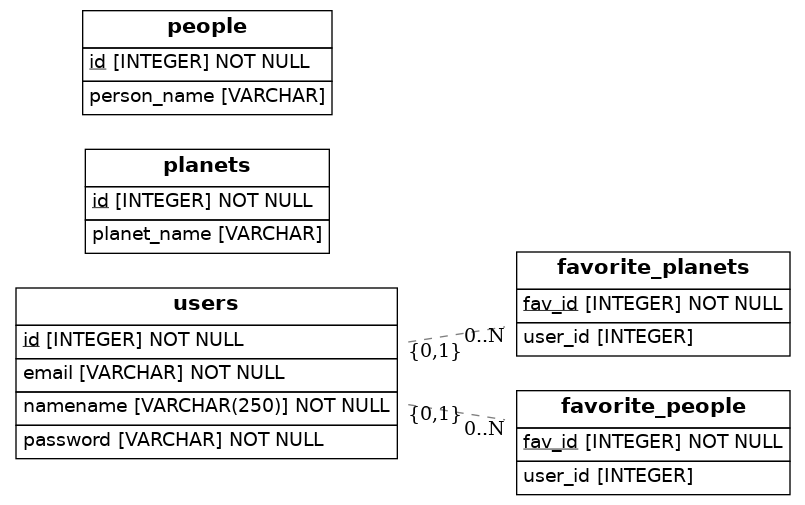
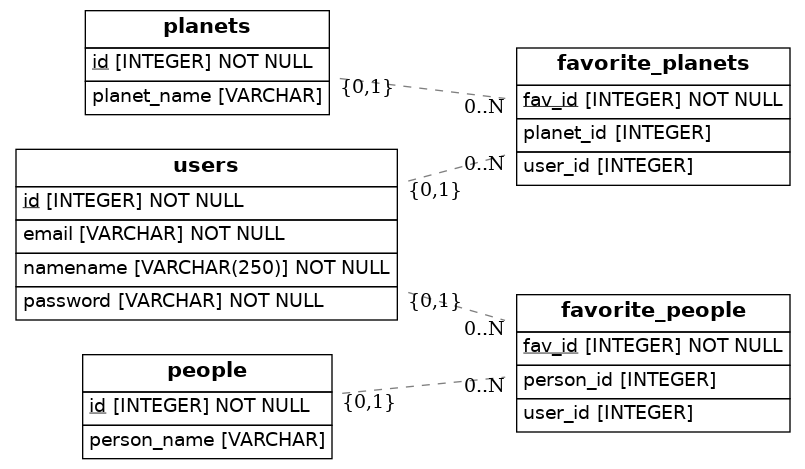
mejores las relaciones entre tablas

Changed region(s): [[0.0, 0.4776, 0.9938, 0.9851], [0.0, 0.0, 0.559, 0.5075], [0.559, 0.0896, 0.9938, 0.4179]]

diff --git a/src/models.py b/src/models.py
@@ -20,25 +20,30 @@ class Planets(Base):
     __tablename__ = 'planets'
     id = Column(Integer, primary_key=True)
     planet_name = Column(String)
+    Favorites_Planets = relationship("Favorites_Planets", uselist=False)
 
 class People(Base):
     __tablename__ = 'people'
     id = Column(Integer, primary_key=True)
     person_name = Column(String)
+    favorite_people = relationship("Favorites_People", uselist=False)
 
 class Favorites_Planets(Base):
     __tablename__ = 'favorite_planets'
     fav_id = Column(Integer, primary_key=True)
     user_id = Column(Integer, ForeignKey('users.id'))
-    Users = relationship("Users")
+    planet_id = Column(Integer, ForeignKey('planets.id'))
+    user = relationship("Users", backref="favorite_planets")
+    planet = relationship("Planets", uselist=False)
 
 class Favorites_People(Base):
     __tablename__ = 'favorite_people'
     fav_id = Column(Integer, primary_key=True)
     user_id = Column(Integer, ForeignKey('users.id'))
-    Users = relationship("Users")
-
-
+    person_id = Column(Integer, ForeignKey('people.id'))
+    user = relationship("Users", backref="favorite_people")
+    person = relationship("People", uselist=False)
+    
     def to_dict(self):
         return {}
 
